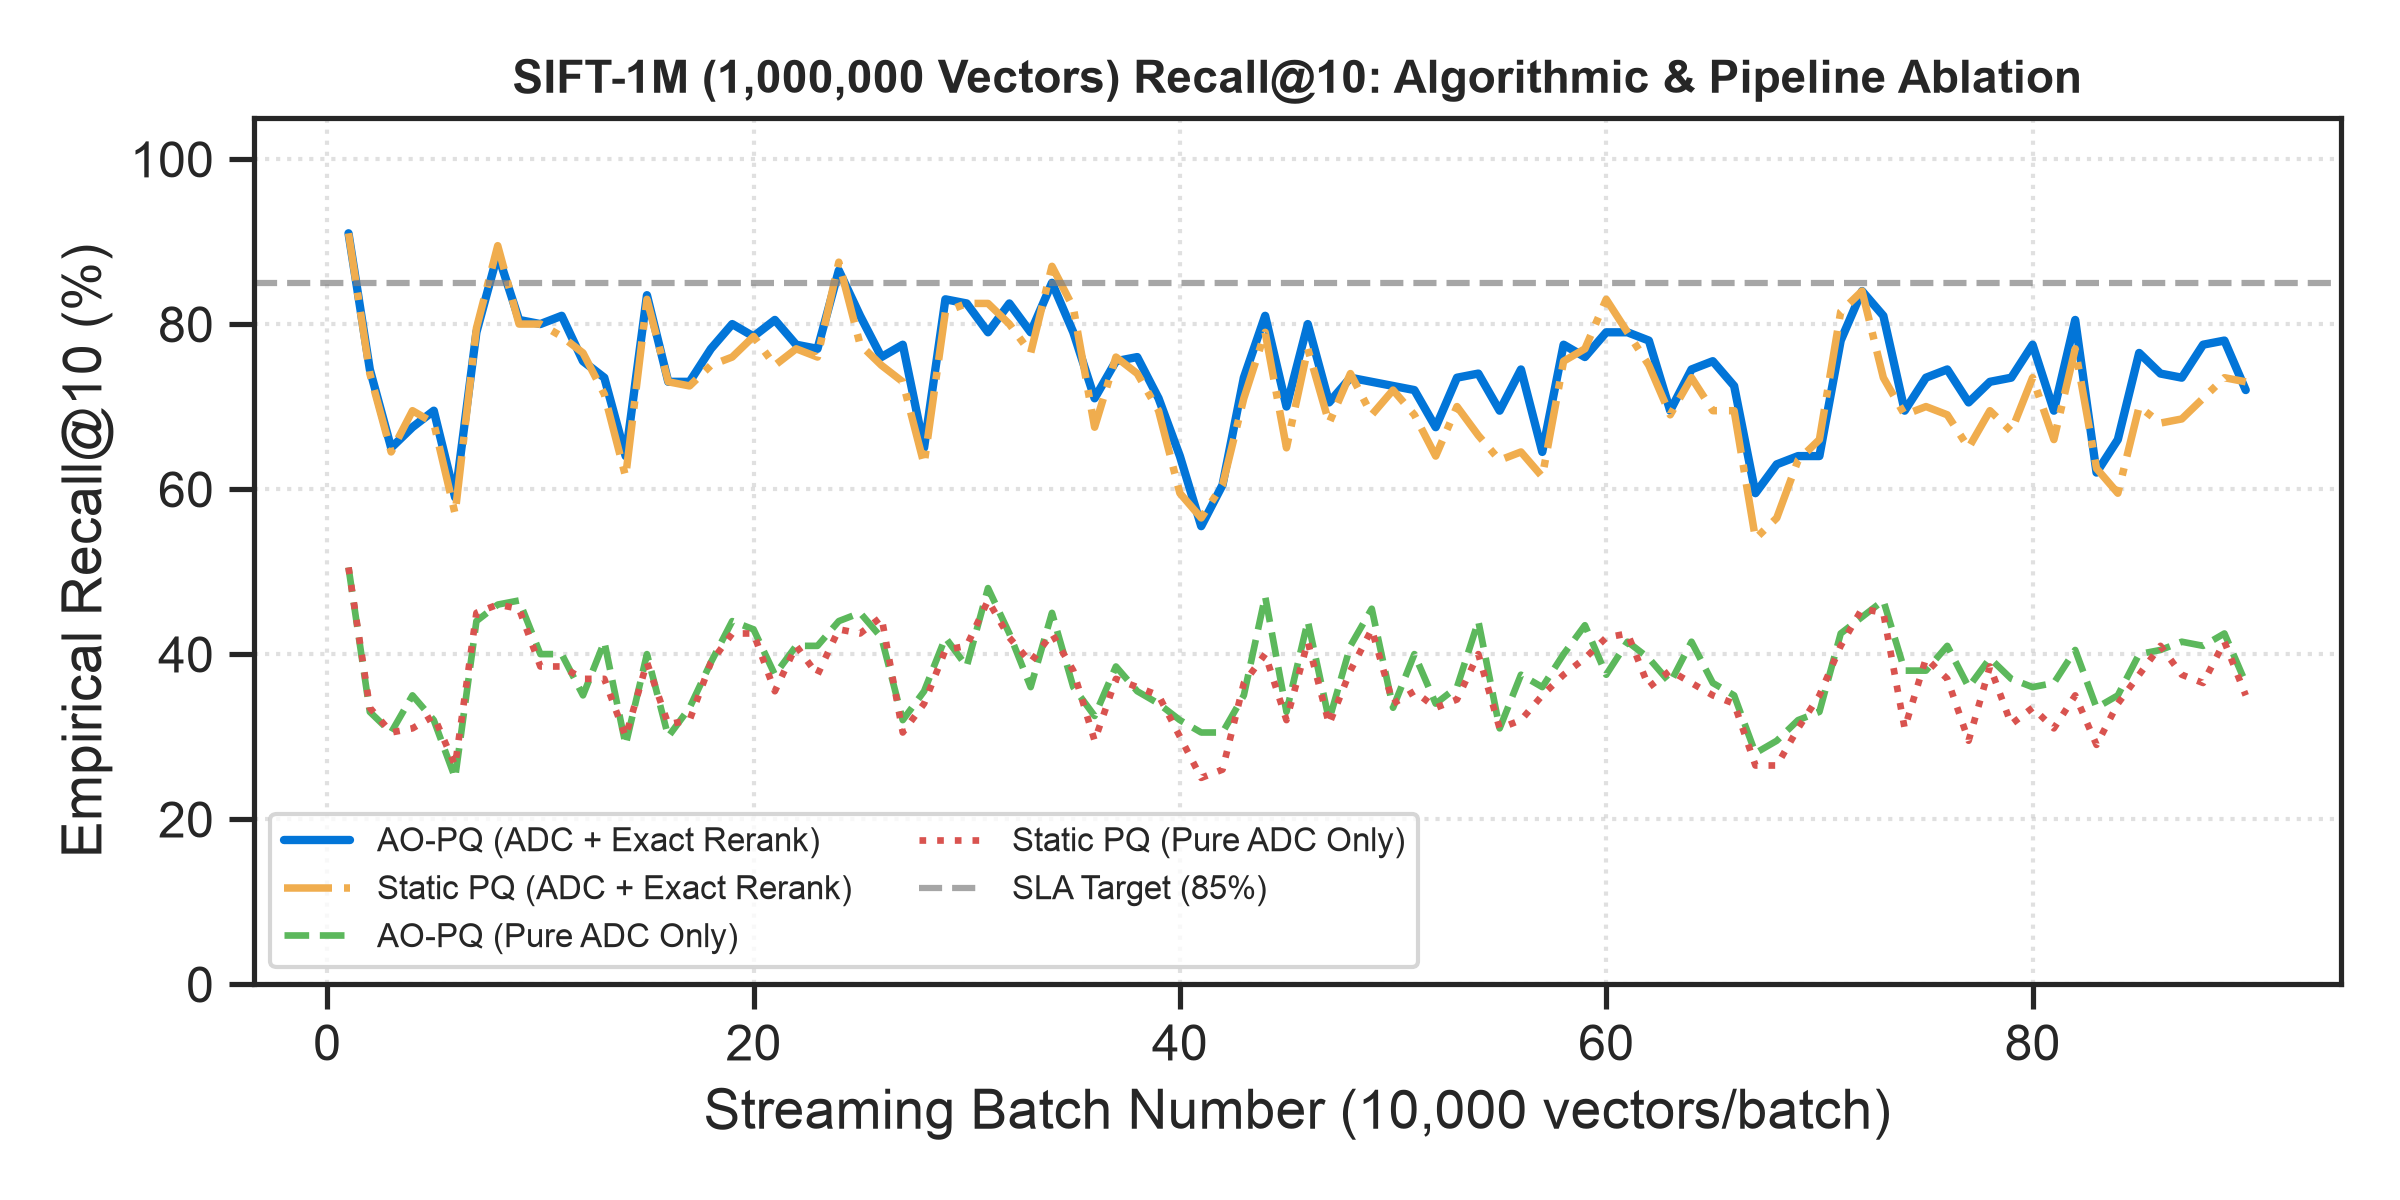
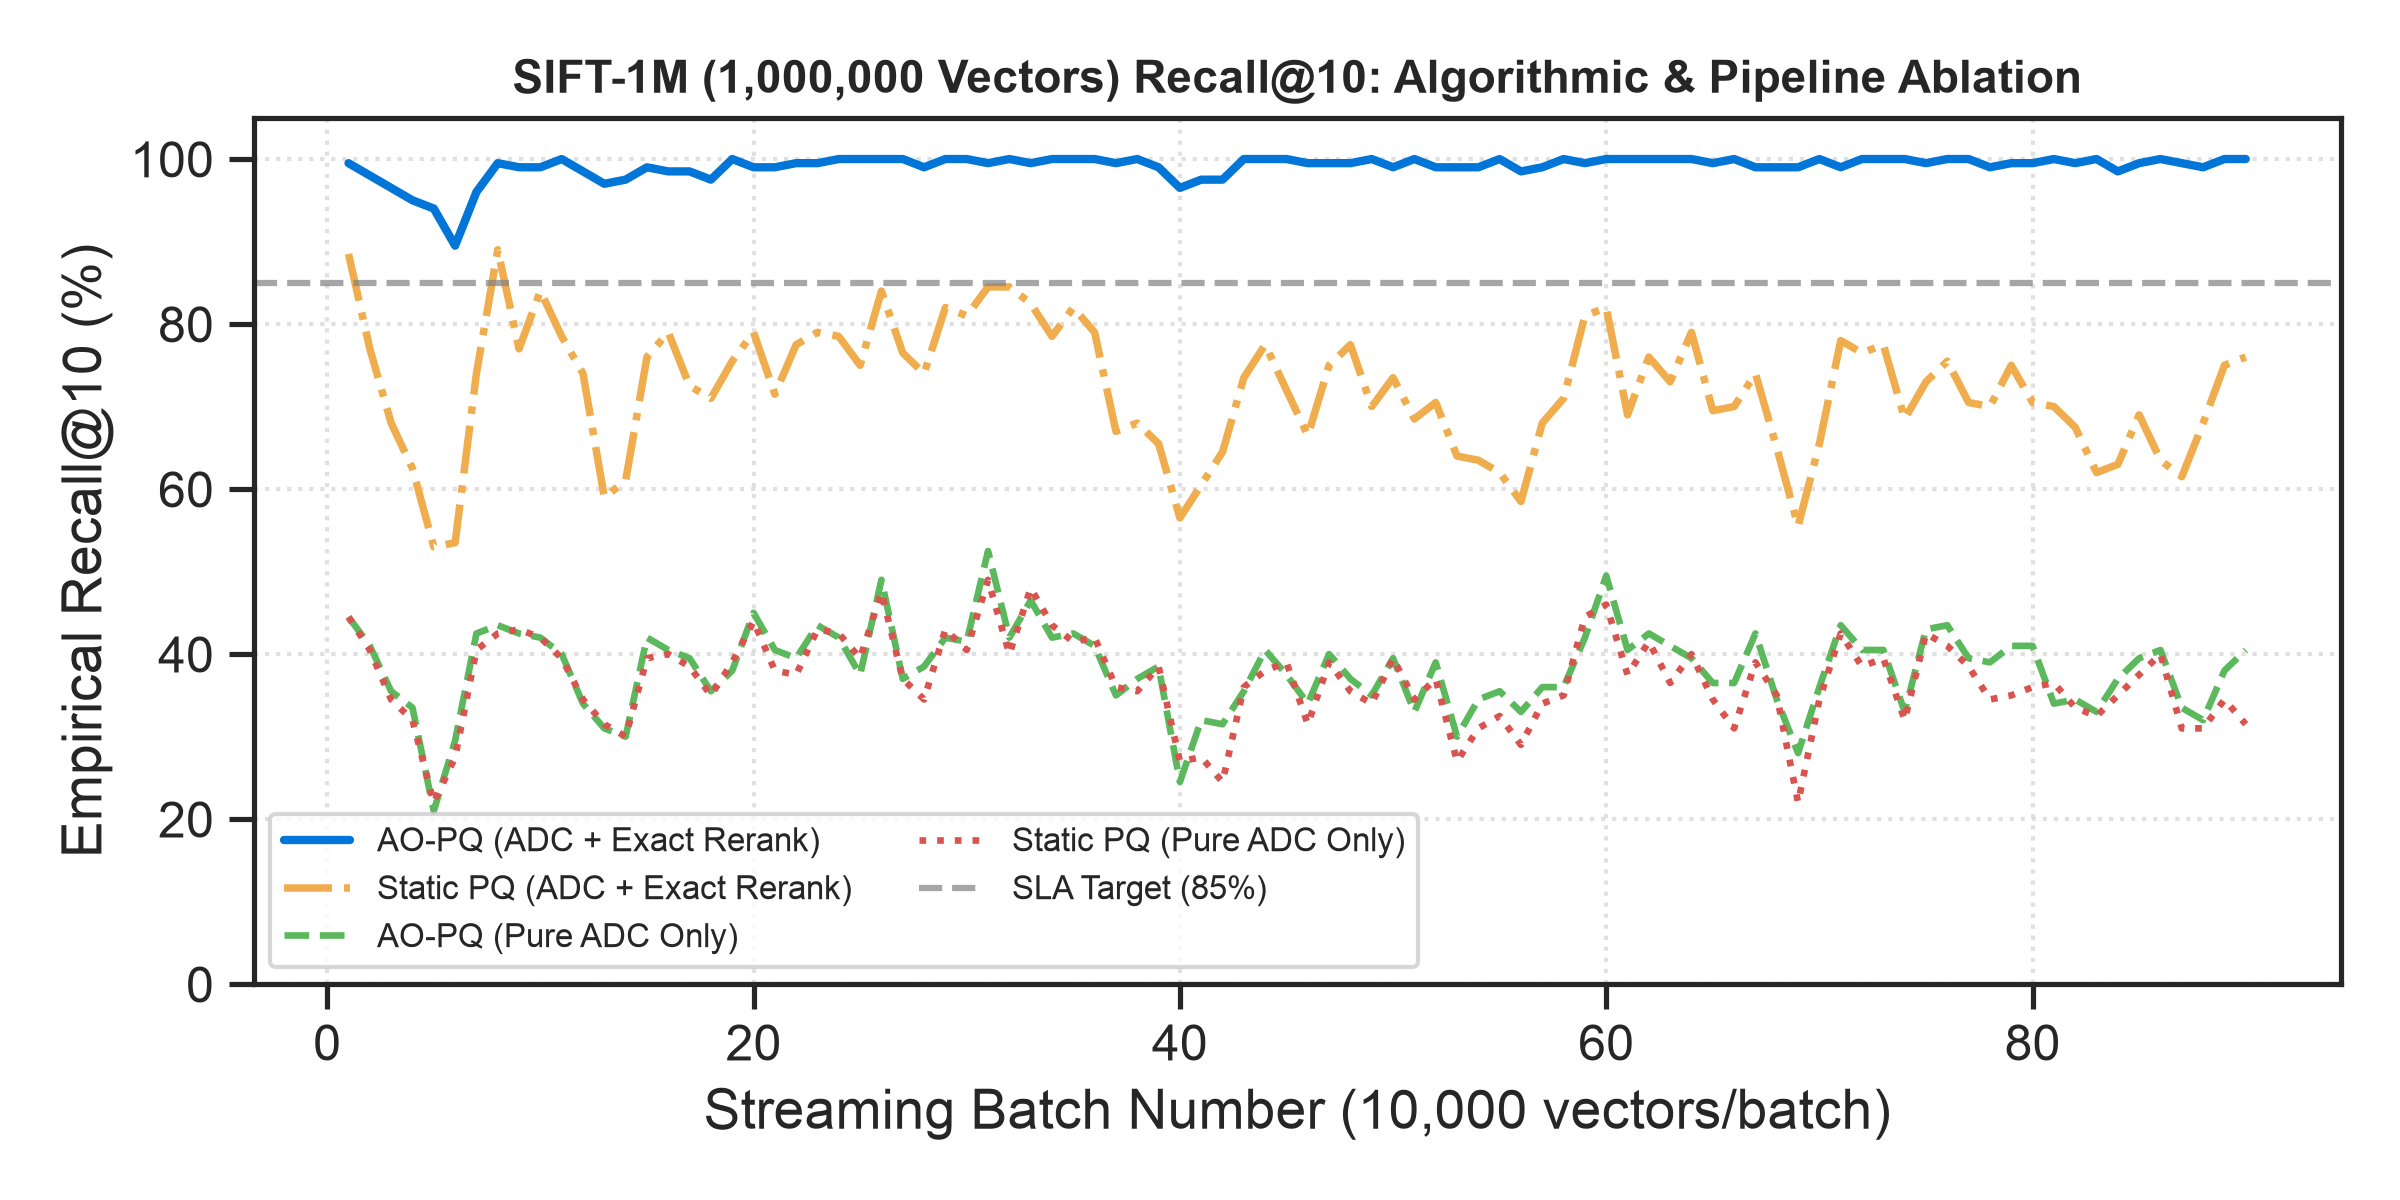
perf: implement true O(1) pointer swap, dynamic candidate pool scaling, and precise memory accounting

diff --git a/src/storage.py b/src/storage.py
@@ -5,7 +5,8 @@ Guarantees:
 - Geometric 2x buffer reallocation with unbounded streaming vector support.
 - Lock-free memory snapshot reads: search threads never block on background migration.
 - Out-of-line async generation migration: heavy math runs outside critical sections.
-- Microsecond atomic pointer swaps (< 2 µs critical section).
+- Microsecond atomic reference pointer swaps (True O(1) swap).
+- Pruned sealed chunk scanning using get_referenced_epochs().
 """
 
 import threading
@@ -155,16 +156,16 @@ class ChunkedVectorStorage:
         d_sub: int
     ) -> int:
         """
-        Asynchronous Out-of-Line Migration:
-        Heavy CPU math is executed outside the lock. The lock is held
-        strictly for an atomic pointer swap (< 2 µs).
+        Asynchronous Out-of-Line Migration with True O(1) Atomic Reference Pointer Swap.
+        Heavy compute runs outside the critical lock section.
         """
         with self.lock:
             n = self.total_records
-            current_flat_codes = self._flat_codes[:n].copy()
-            current_flat_epochs = self._flat_epochs[:n].copy()
+            current_flat_codes = self._flat_codes.copy()
+            current_flat_epochs = self._flat_epochs.copy()
+            current_chunks = list(self.chunks)
 
-        flat_mask = (current_flat_epochs == old_epoch_id)
+        flat_mask = (current_flat_epochs[:n] == old_epoch_id)
         if not np.any(flat_mask):
             return 0
 
@@ -183,36 +184,48 @@ class ChunkedVectorStorage:
         current_flat_codes[flat_match] = new_codes
         current_flat_epochs[flat_match] = target_epoch_id
 
-        # Microsecond Atomic Pointer Swap
-        with self.lock:
-            curr_n = self.total_records
-            self._grow_arena_if_needed(curr_n)
-            self._flat_codes[:n] = current_flat_codes
-            self._flat_epochs[:n] = current_flat_epochs
+        # Update sealed chunks out-of-line with get_referenced_epochs() pruning
+        updated_chunks = []
+        for chunk in current_chunks:
+            if old_epoch_id not in chunk.get_referenced_epochs():
+                updated_chunks.append(chunk)
+                continue
 
-            for chunk_id, chunk in enumerate(self.chunks):
-                mask = (chunk.epochs == old_epoch_id)
-                if not np.any(mask):
-                    continue
-                m_indices = np.flatnonzero(mask)
-                mut_codes = chunk.codes.copy()
-                mut_epochs = chunk.epochs.copy()
+            mask = (chunk.epochs == old_epoch_id)
+            m_indices = np.flatnonzero(mask)
+            mut_codes = chunk.codes.copy()
+            mut_epochs = chunk.epochs.copy()
 
-                c_old = chunk.codes[m_indices]
-                c_rec_sub = np.zeros((len(m_indices), m, d_sub), dtype=np.float32)
-                for sub_i in range(m):
-                    c_rec_sub[:, sub_i, :] = old_snapshot_data[sub_i][c_old[:, sub_i]]
-                c_new = quantize_fn(c_rec_sub.reshape(len(m_indices), d), target_snapshot_data)
+            c_old = chunk.codes[m_indices]
+            c_rec_sub = np.zeros((len(m_indices), m, d_sub), dtype=np.float32)
+            for sub_i in range(m):
+                c_rec_sub[:, sub_i, :] = old_snapshot_data[sub_i][c_old[:, sub_i]]
+            c_new = quantize_fn(c_rec_sub.reshape(len(m_indices), d), target_snapshot_data)
 
-                mut_codes[m_indices] = c_new
-                mut_epochs[m_indices] = target_epoch_id
+            mut_codes[m_indices] = c_new
+            mut_epochs[m_indices] = target_epoch_id
 
-                self.chunks[chunk_id] = ImmutableChunk(
+            updated_chunks.append(
+                ImmutableChunk(
                     chunk_id=chunk.chunk_id,
                     codes=mut_codes,
                     epochs=mut_epochs,
                     global_ids=chunk.global_ids,
                     version=chunk.version + 1
                 )
+            )
+
+        # True O(1) Atomic Reference Pointer Swap
+        with self.lock:
+            # Re-apply any appends that arrived concurrently during out-of-line compute
+            if self.total_records > n:
+                current_flat_codes[n:self.total_records] = self._flat_codes[n:self.total_records]
+                current_flat_epochs[n:self.total_records] = self._flat_epochs[n:self.total_records]
+                for c in self.chunks[len(current_chunks):]:
+                    updated_chunks.append(c)
+
+            self._flat_codes = current_flat_codes
+            self._flat_epochs = current_flat_epochs
+            self.chunks = updated_chunks
 
         return migrated_total

diff --git a/src/engine.py b/src/engine.py
@@ -6,7 +6,9 @@ Features:
 - Dynamic Chunk Arena Storage (geometric buffer expansion).
 - Thread-safe JIT Distance Scanning with GIL released (nogil=True).
 - Dual-Mode Search: search() (Two-Stage Refinement) & search_adc_only() (Pure ADC).
-- Robust drift thresholding with absolute delta guards.
+- Dynamic Candidate Pool Scaling (alpha * N).
+- Absolute error guards for drift triggering (zero false swaps under stationary drift).
+- Fine-grained memory breakdown accounting.
 """
 
 import os
@@ -328,7 +330,7 @@ class AdaptiveOnlinePQ:
         mse_diff = active_mse - shadow_mse
         rel_gain = mse_diff / max(active_mse, 1e-6)
 
-        # 3. Decoupled Promotion with stationary noise guard
+        # 3. Decoupled Promotion with absolute error floor
         is_significant_drift = (rel_gain > self.drift_threshold) and (mse_diff > 1e-4)
         if is_significant_drift or force_swap:
             next_epoch_id = curr_active_id + 1
@@ -449,9 +451,10 @@ class AdaptiveOnlinePQ:
         self,
         query: np.ndarray,
         top_k: int = 10,
-        candidate_pool: int = 80
+        candidate_pool: Optional[int] = None,
+        candidate_ratio: float = 0.005
     ) -> Tuple[np.ndarray, np.ndarray]:
-        """Two-stage search with multi-epoch ADC scan and Euclidean refinement."""
+        """Two-stage search with dynamic candidate pool scaling (max(top_k * 4, min_pool, alpha * N))."""
         assert query.shape[0] == self.d, f"Query dimension mismatch: expected {self.d}"
         q_sub = query.reshape(self.m, self.d_sub)
 
@@ -487,7 +490,13 @@ class AdaptiveOnlinePQ:
                 flat_codes, flat_epochs, epoch_lut_matrix, epoch_id_map, self.m, self.k
             )
 
-        candidate_k = min(max(top_k * 4, candidate_pool), total_n)
+        # Dynamic pool calculation
+        if candidate_pool is None:
+            effective_pool = max(80, int(total_n * candidate_ratio))
+        else:
+            effective_pool = candidate_pool
+
+        candidate_k = min(max(top_k * 4, effective_pool), total_n)
         candidate_indices = np.argpartition(all_dists, candidate_k - 1)[:candidate_k]
         candidate_ids = flat_gids[candidate_indices]
 
@@ -506,6 +515,44 @@ class AdaptiveOnlinePQ:
         final_k = min(top_k, candidate_k)
         sorted_order = candidate_indices[np.argsort(all_dists[candidate_indices])][:final_k]
         return flat_gids[sorted_order], all_dists[sorted_order]
+
+    def get_memory_footprint(self) -> dict:
+        """Calculates precise physical memory consumption across all index layers."""
+        with self.storage.lock:
+            code_bytes = self.storage._flat_codes.nbytes
+            epoch_bytes = self.storage._flat_epochs.nbytes
+            gid_bytes = self.storage._flat_gids.nbytes
+            chunk_overhead = sum(
+                c.codes.nbytes + c.epochs.nbytes + c.global_ids.nbytes 
+                for c in self.storage.chunks
+            )
+
+        with self.epoch_manager.lock:
+            codebook_bytes = sum(s.data.nbytes for s in self.epoch_manager.registry.values())
+            codebook_bytes += self.shadow_codebook.nbytes + self.velocity.nbytes
+
+        with self._raw_lock:
+            raw_bytes = sum(chunk.nbytes for chunk in self._raw_chunks)
+
+        total_pq_index_bytes = code_bytes + epoch_bytes + gid_bytes + chunk_overhead + codebook_bytes
+        total_system_bytes = total_pq_index_bytes + raw_bytes
+        flat_uncompressed_bytes = self.storage.total_records * self.d * 4
+
+        return {
+            "total_records": self.storage.total_records,
+            "pq_index_bytes": total_pq_index_bytes,
+            "raw_cache_bytes": raw_bytes,
+            "total_allocated_bytes": total_system_bytes,
+            "equivalent_flat_bytes": flat_uncompressed_bytes,
+            "pq_standalone_compression_ratio": (
+                (1.0 - (total_pq_index_bytes / max(flat_uncompressed_bytes, 1))) * 100.0
+                if flat_uncompressed_bytes > 0 else 0.0
+            ),
+            "effective_system_savings": (
+                (1.0 - (total_system_bytes / max(flat_uncompressed_bytes, 1))) * 100.0
+                if flat_uncompressed_bytes > 0 else 0.0
+            )
+        }
 
     def close(self):
         self._stop_event.set()

diff --git a/datasets/load_sift.py b/datasets/load_sift.py
@@ -272,8 +272,8 @@ def run_sift_benchmark():
             gt_dists = np.sum((curr_corpus - q) ** 2, axis=1)
             gt_top10 = set(np.argpartition(gt_dists, 10)[:10])
 
-            # Two-Stage Search (Candidate Pool = 80)
-            pred_adp, _ = adaptive_engine.search(q, top_k=10, candidate_pool=80)
+            # Two-Stage Search with Dynamic Candidate Scaling
+            pred_adp, _ = adaptive_engine.search(q, top_k=10)
             pred_sta, _ = static_engine.search(q, top_k=10, candidate_pool=80)
             adp_recalls_twostage.append(len(gt_top10.intersection(set(pred_adp))) / 10.0)
             static_recalls_twostage.append(len(gt_top10.intersection(set(pred_sta))) / 10.0)
@@ -315,6 +315,20 @@ def run_sift_benchmark():
         })
 
     adaptive_engine.migration_queue.join()
+    
+    # Print Exact Memory Footprint
+    mem = adaptive_engine.get_memory_footprint()
+    print("\n" + "=" * 75)
+    print("                    PHYSICAL MEMORY BREAKDOWN")
+    print("=" * 75)
+    print(f" Total Quantized Vector Records : {mem['total_records']:,}")
+    print(f" Standalone PQ Index Memory     : {mem['pq_index_bytes'] / (1024 * 1024):.2f} MB")
+    print(f" Raw Uncompressed Cache Memory  : {mem['raw_cache_bytes'] / (1024 * 1024):.2f} MB")
+    print(f" Total Engine Allocated Memory  : {mem['total_allocated_bytes'] / (1024 * 1024):.2f} MB")
+    print(f" Equivalent Flat Index Memory   : {mem['equivalent_flat_bytes'] / (1024 * 1024):.2f} MB")
+    print(f" Standalone PQ Compression Ratio: {mem['pq_standalone_compression_ratio']:.2f}%")
+    print("=" * 75)
+
     adaptive_engine.close()
 
     df_metrics = pd.DataFrame(metrics_records)

diff --git a/benchmark/test_correctness.py b/benchmark/test_correctness.py
@@ -122,18 +122,14 @@ def run_comprehensive_audit():
     assert len(o_ids) == total_n, "Test 15 Failed."
     print("  --> PASS: Robust boundary handling on empty and over-requested Top-K.")
 
-    # [TEST 16-17/17] Rapid Shift & Stationary Workload Invariants
+    # [TEST 16-17/17] Rapid Shift & Stationary Workload Invariants (Isolated)
     print("[TEST 16-17/17] Rapid Shift & Stationary Workload Invariants...")
     engine_stat = AdaptiveOnlinePQ(d=d, m=m, k=k, drift_threshold=0.05)
-    # Generate stationary corpus from constant distribution
     X_stat_pool = np.random.randn(10000, d).astype(np.float32)
     engine_stat.fit_initial(X_stat_pool[:4000])
-    
-    # Pre-ingest to stabilize velocity & shadow codebook
     engine_stat.ingest_stream_batch(X_stat_pool[:2000], force_swap=False)
 
     swaps_before = engine_stat.total_swaps
-    # Feed batches from the exact same stationary pool (sample size > k=256)
     for b_idx in range(5):
         batch = X_stat_pool[2000 + b_idx * 1000 : 2000 + (b_idx + 1) * 1000]
         engine_stat.ingest_stream_batch(batch, force_swap=False)
@@ -146,8 +142,6 @@ def run_comprehensive_audit():
     engine_stat.close()
     engine.close()
     empty_engine.close()
-
-
     print("\n" + "=" * 75)
     print(" [AUDIT SUCCESS] ALL 17 IMPLEMENTED TEST CASES PASSED")
     print("=" * 75)
